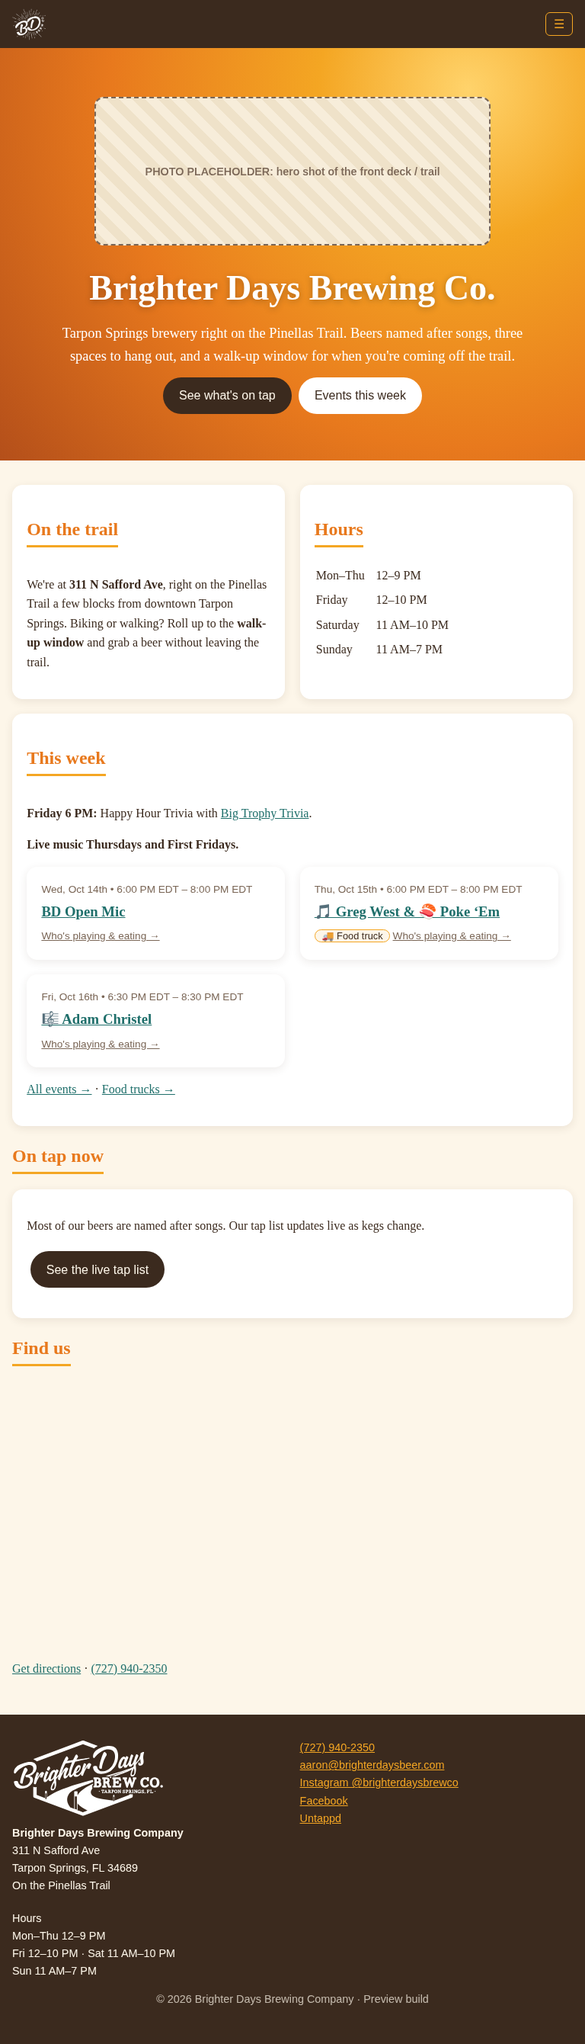
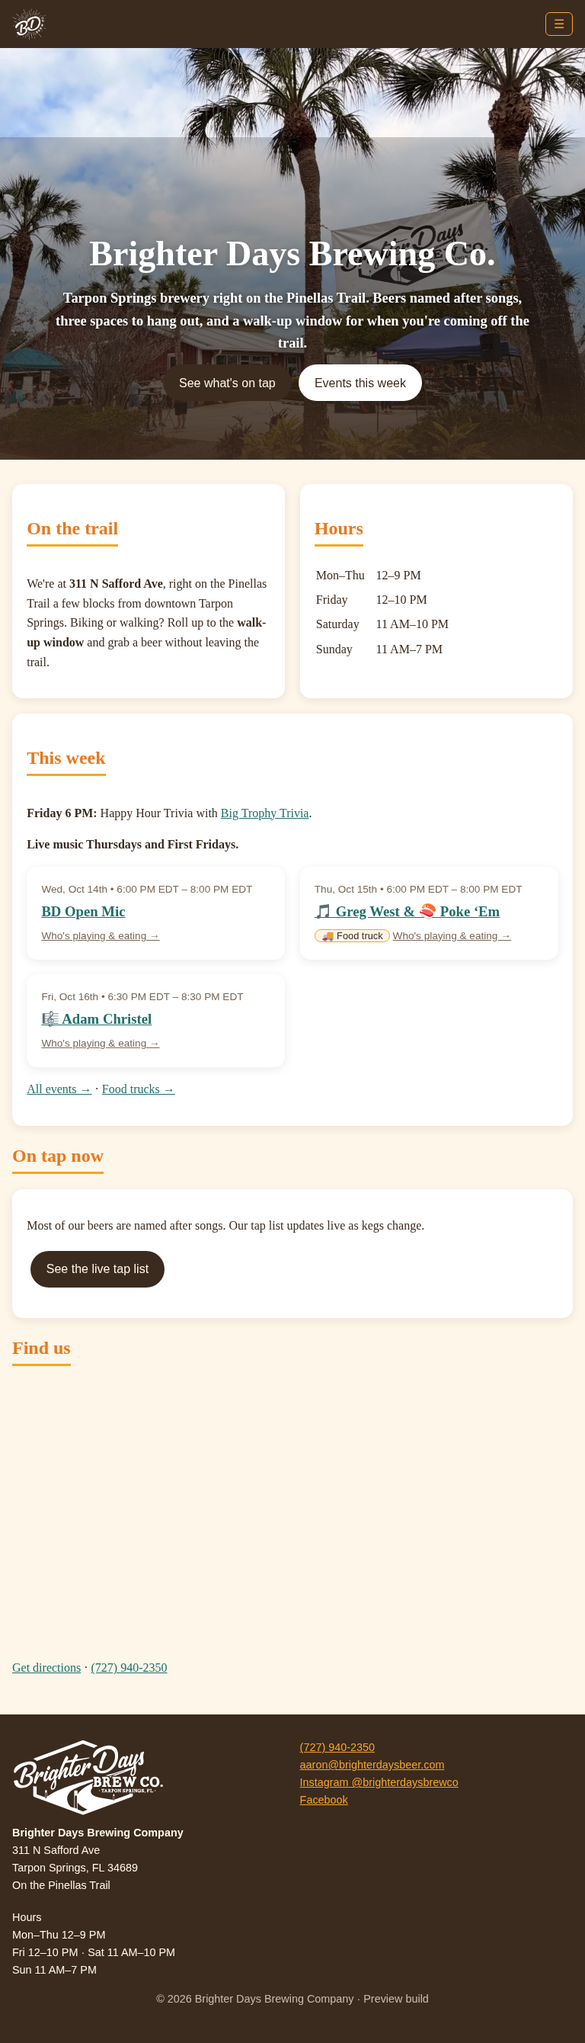
Fix stretched hero on iPhone: object-fit cover, svh height, img height:auto site-wide, cache-bust CSS

diff --git a/index.html b/index.html
@@ -1,7 +1,7 @@
 <!doctype html><html lang="en"><head><meta charset="utf-8"><meta name="viewport" content="width=device-width,initial-scale=1">
 <title>Home | Brighter Days Brewing Company, Tarpon Springs FL</title><meta name="description" content="Brighter Days Brewing Company: a Tarpon Springs brewery right on the Pinellas Trail, with a walk-up window and beers named after songs.">
 <link rel="icon" href="favicon.ico" sizes="any"><link rel="icon" type="image/png" sizes="32x32" href="assets/img/logo/favicon-32.png"><link rel="icon" type="image/png" sizes="16x16" href="assets/img/logo/favicon-16.png"><link rel="icon" type="image/png" sizes="192x192" href="assets/img/logo/favicon-192.png"><link rel="apple-touch-icon" href="assets/img/logo/apple-touch-icon.png">
-<link rel="stylesheet" href="assets/style.css"></head><body>
+<link rel="stylesheet" href="assets/style.css?v=20261013b"></head><body>
 <header><div class="nav"><a class="logo" href="index.html" aria-label="Brighter Days Brew Co. home"><img class="logo-full" src="assets/img/logo/bd-logo-main-white.svg" alt="Brighter Days Brew Co., Tarpon Springs, FL" width="690" height="353"><img class="logo-mark" src="assets/img/logo/bd-starburst-white.png" alt="Brighter Days Brew Co." width="200" height="200"></a><button id="menuBtn" aria-label="Menu">☰</button><nav><ul><li><a href="index.html" class=on>Home</a></li><li><a href="taps.html">Tap List</a></li><li><a href="events.html">Events</a></li><li><a href="food-trucks.html">Food Trucks</a></li><li><a href="private-events.html">Private Events</a></li><li><a href="spaces.html">Spaces</a></li><li><a href="story.html">Our Story</a></li><li><a href="contact.html">Contact</a></li></ul></nav></div></header>
 <section class="hero photo"><picture><source srcset="assets/img/home-hero.webp" type="image/webp"><img class="hero-img" src="assets/img/home-hero.jpg" alt="Brighter Days Brew Co. banner among the palms outside the taproom on the Pinellas Trail" width="1440" height="810" fetchpriority="high"></picture><div class="hero-inner"><h1>Brighter Days Brewing Co.</h1><p>Tarpon Springs brewery right on the Pinellas Trail. Beers named after songs, three spaces to hang out, and a walk-up window for when you're coming off the trail.</p>
 <a class="btn" href="taps.html">See what's on tap</a><a class="btn alt" href="events.html">Events this week</a></div></section>
@@ -13,4 +13,4 @@
 <h2>On tap now</h2><div class="card"><p>Most of our beers are named after songs. Our tap list updates live as kegs change.</p><p><a class="btn" href="taps.html">See the live tap list</a></p></div>
 <h2>Find us</h2><iframe class="map" loading="lazy" title="Map to 311 N Safford Ave, Tarpon Springs" src="https://maps.google.com/maps?q=311%20N%20Safford%20Ave%2C%20Tarpon%20Springs%2C%20FL%2034689&z=16&output=embed"></iframe><p><a href="https://www.google.com/maps/dir/?api=1&destination=311+N+Safford+Ave+Tarpon+Springs+FL+34689">Get directions</a> · <a href="tel:+17279402350">(727) 940-2350</a></p></main>
 <footer><div class="grid"><div><img src="assets/img/logo/bd-logo-main-white.svg" alt="Brighter Days Brew Co., Tarpon Springs, FL" style="width:200px;height:auto;display:block;margin-bottom:.6rem"><strong>Brighter Days Brewing Company</strong><br>311 N Safford Ave<br>Tarpon Springs, FL 34689<br>On the Pinellas Trail</div><div><a href="tel:+17279402350">(727) 940-2350</a><br><a href="mailto:aaron@brighterdaysbeer.com">aaron@brighterdaysbeer.com</a><br><a href="https://instagram.com/brighterdaysbrewco">Instagram @brighterdaysbrewco</a><br><a href="https://www.facebook.com/282372538847975">Facebook</a></div><div>Hours<br>Mon–Thu 12–9 PM<br>Fri 12–10 PM · Sat 11 AM–10 PM<br>Sun 11 AM–7 PM</div></div><p style="text-align:center;opacity:.7">© 2026 Brighter Days Brewing Company · Preview build</p></footer>
-<script src="assets/site.js"></script><script src="data/events.js"></script><script>renderEvents(document.getElementById("homeEvents"),3)</script></body></html>
+<script src="assets/site.js?v=20261013b"></script><script src="data/events.js"></script><script>renderEvents(document.getElementById("homeEvents"),3)</script></body></html>

diff --git a/contact.html b/contact.html
@@ -1,8 +1,8 @@
 <!doctype html><html lang="en"><head><meta charset="utf-8"><meta name="viewport" content="width=device-width,initial-scale=1">
 <title>Contact | Brighter Days Brewing Company, Tarpon Springs FL</title><meta name="description" content="Brighter Days Brewing Company: a Tarpon Springs brewery right on the Pinellas Trail, with a walk-up window and beers named after songs.">
 <link rel="icon" href="favicon.ico" sizes="any"><link rel="icon" type="image/png" sizes="32x32" href="assets/img/logo/favicon-32.png"><link rel="icon" type="image/png" sizes="16x16" href="assets/img/logo/favicon-16.png"><link rel="icon" type="image/png" sizes="192x192" href="assets/img/logo/favicon-192.png"><link rel="apple-touch-icon" href="assets/img/logo/apple-touch-icon.png">
-<link rel="stylesheet" href="assets/style.css"></head><body>
+<link rel="stylesheet" href="assets/style.css?v=20261013b"></head><body>
 <header><div class="nav"><a class="logo" href="index.html" aria-label="Brighter Days Brew Co. home"><img class="logo-full" src="assets/img/logo/bd-logo-main-white.svg" alt="Brighter Days Brew Co., Tarpon Springs, FL" width="690" height="353"><img class="logo-mark" src="assets/img/logo/bd-starburst-white.png" alt="Brighter Days Brew Co." width="200" height="200"></a><button id="menuBtn" aria-label="Menu">☰</button><nav><ul><li><a href="index.html">Home</a></li><li><a href="taps.html">Tap List</a></li><li><a href="events.html">Events</a></li><li><a href="food-trucks.html">Food Trucks</a></li><li><a href="private-events.html">Private Events</a></li><li><a href="spaces.html">Spaces</a></li><li><a href="story.html">Our Story</a></li><li><a href="contact.html" class=on>Contact</a></li></ul></nav></div></header>
 <main><h2>Contact & visit</h2><div class="grid"><div class="card"><h3>Brighter Days Brewing Company</h3><p>311 N Safford Ave<br>Tarpon Springs, FL 34689</p><p><a href="tel:+17279402350">(727) 940-2350</a></p><p><a href="https://instagram.com/brighterdaysbrewco">Instagram @brighterdaysbrewco</a><br><a href="https://www.facebook.com/282372538847975">Facebook</a></p><p>Email: <a href="mailto:aaron@brighterdaysbeer.com">aaron@brighterdaysbeer.com</a></p></div><div class="card"><h3>Hours</h3><table class="hours"><tr><td>Mon–Thu</td><td>12–9 PM</td></tr><tr><td>Friday</td><td>12–10 PM</td></tr><tr><td>Saturday</td><td>11 AM–10 PM</td></tr><tr><td>Sunday</td><td>11 AM–7 PM</td></tr></table></div></div><h3>Map</h3><iframe class="map" loading="lazy" title="Map to 311 N Safford Ave, Tarpon Springs" src="https://maps.google.com/maps?q=311%20N%20Safford%20Ave%2C%20Tarpon%20Springs%2C%20FL%2034689&z=16&output=embed"></iframe></main>
 <footer><div class="grid"><div><img src="assets/img/logo/bd-logo-main-white.svg" alt="Brighter Days Brew Co., Tarpon Springs, FL" style="width:200px;height:auto;display:block;margin-bottom:.6rem"><strong>Brighter Days Brewing Company</strong><br>311 N Safford Ave<br>Tarpon Springs, FL 34689<br>On the Pinellas Trail</div><div><a href="tel:+17279402350">(727) 940-2350</a><br><a href="mailto:aaron@brighterdaysbeer.com">aaron@brighterdaysbeer.com</a><br><a href="https://instagram.com/brighterdaysbrewco">Instagram @brighterdaysbrewco</a><br><a href="https://www.facebook.com/282372538847975">Facebook</a></div><div>Hours<br>Mon–Thu 12–9 PM<br>Fri 12–10 PM · Sat 11 AM–10 PM<br>Sun 11 AM–7 PM</div></div><p style="text-align:center;opacity:.7">© 2026 Brighter Days Brewing Company · Preview build</p></footer>
-<script src="assets/site.js"></script></body></html>
+<script src="assets/site.js?v=20261013b"></script></body></html>

diff --git a/story.html b/story.html
@@ -1,8 +1,8 @@
 <!doctype html><html lang="en"><head><meta charset="utf-8"><meta name="viewport" content="width=device-width,initial-scale=1">
 <title>Our Story | Brighter Days Brewing Company, Tarpon Springs FL</title><meta name="description" content="Brighter Days Brewing Company: a Tarpon Springs brewery right on the Pinellas Trail, with a walk-up window and beers named after songs.">
 <link rel="icon" href="favicon.ico" sizes="any"><link rel="icon" type="image/png" sizes="32x32" href="assets/img/logo/favicon-32.png"><link rel="icon" type="image/png" sizes="16x16" href="assets/img/logo/favicon-16.png"><link rel="icon" type="image/png" sizes="192x192" href="assets/img/logo/favicon-192.png"><link rel="apple-touch-icon" href="assets/img/logo/apple-touch-icon.png">
-<link rel="stylesheet" href="assets/style.css"></head><body>
+<link rel="stylesheet" href="assets/style.css?v=20261013b"></head><body>
 <header><div class="nav"><a class="logo" href="index.html" aria-label="Brighter Days Brew Co. home"><img class="logo-full" src="assets/img/logo/bd-logo-main-white.svg" alt="Brighter Days Brew Co., Tarpon Springs, FL" width="690" height="353"><img class="logo-mark" src="assets/img/logo/bd-starburst-white.png" alt="Brighter Days Brew Co." width="200" height="200"></a><button id="menuBtn" aria-label="Menu">☰</button><nav><ul><li><a href="index.html">Home</a></li><li><a href="taps.html">Tap List</a></li><li><a href="events.html">Events</a></li><li><a href="food-trucks.html">Food Trucks</a></li><li><a href="private-events.html">Private Events</a></li><li><a href="spaces.html">Spaces</a></li><li><a href="story.html" class=on>Our Story</a></li><li><a href="contact.html">Contact</a></li></ul></nav></div></header>
 <main><h2>Our story</h2><div class="grid"><div class="card"><p>We opened in 2020 with one idea: a big patio, cold beer, and live music most nights. Six years later, that's still the whole plan.</p><p>Music is the heartbeat here, and every beer we brew is named after a song. Thursdays and First Fridays bring bands to the taproom, from funk and soul to jam-band improv and laid-back country.</p><p>Three rooms, one easy vibe: the indoor bar, the open-air garage with the game on, and a big deck right off the Pinellas Trail, with Adirondack chairs and umbrellas. Our walk-up window means bikers and trail walkers are as much a part of the crowd as the regulars.</p><p>We're family-friendly and dog-friendly. Since 2022, every March we've hosted the 5K for Autism, which funds the Heart 4 Kids scholarship.</p></div><div class="ph-img">PHOTO PLACEHOLDER: owner / brewhouse</div></div></main>
 <footer><div class="grid"><div><img src="assets/img/logo/bd-logo-main-white.svg" alt="Brighter Days Brew Co., Tarpon Springs, FL" style="width:200px;height:auto;display:block;margin-bottom:.6rem"><strong>Brighter Days Brewing Company</strong><br>311 N Safford Ave<br>Tarpon Springs, FL 34689<br>On the Pinellas Trail</div><div><a href="tel:+17279402350">(727) 940-2350</a><br><a href="mailto:aaron@brighterdaysbeer.com">aaron@brighterdaysbeer.com</a><br><a href="https://instagram.com/brighterdaysbrewco">Instagram @brighterdaysbrewco</a><br><a href="https://www.facebook.com/282372538847975">Facebook</a></div><div>Hours<br>Mon–Thu 12–9 PM<br>Fri 12–10 PM · Sat 11 AM–10 PM<br>Sun 11 AM–7 PM</div></div><p style="text-align:center;opacity:.7">© 2026 Brighter Days Brewing Company · Preview build</p></footer>
-<script src="assets/site.js"></script></body></html>
+<script src="assets/site.js?v=20261013b"></script></body></html>

diff --git a/private-events.html b/private-events.html
@@ -1,7 +1,7 @@
 <!doctype html><html lang="en"><head><meta charset="utf-8"><meta name="viewport" content="width=device-width,initial-scale=1">
 <title>Private Events | Brighter Days Brewing Company, Tarpon Springs FL</title><meta name="description" content="Brighter Days Brewing Company: a Tarpon Springs brewery right on the Pinellas Trail, with a walk-up window and beers named after songs.">
 <link rel="icon" href="favicon.ico" sizes="any"><link rel="icon" type="image/png" sizes="32x32" href="assets/img/logo/favicon-32.png"><link rel="icon" type="image/png" sizes="16x16" href="assets/img/logo/favicon-16.png"><link rel="icon" type="image/png" sizes="192x192" href="assets/img/logo/favicon-192.png"><link rel="apple-touch-icon" href="assets/img/logo/apple-touch-icon.png">
-<link rel="stylesheet" href="assets/style.css"></head><body>
+<link rel="stylesheet" href="assets/style.css?v=20261013b"></head><body>
 <header><div class="nav"><a class="logo" href="index.html" aria-label="Brighter Days Brew Co. home"><img class="logo-full" src="assets/img/logo/bd-logo-main-white.svg" alt="Brighter Days Brew Co., Tarpon Springs, FL" width="690" height="353"><img class="logo-mark" src="assets/img/logo/bd-starburst-white.png" alt="Brighter Days Brew Co." width="200" height="200"></a><button id="menuBtn" aria-label="Menu">☰</button><nav><ul><li><a href="index.html">Home</a></li><li><a href="taps.html">Tap List</a></li><li><a href="events.html">Events</a></li><li><a href="food-trucks.html">Food Trucks</a></li><li><a href="private-events.html" class=on>Private Events</a></li><li><a href="spaces.html">Spaces</a></li><li><a href="story.html">Our Story</a></li><li><a href="contact.html">Contact</a></li></ul></nav></div></header>
 <main><h2>Private events</h2><p>Birthdays, team outings, rehearsal dinners, club meetups: tell us what you have in mind and we'll get back to you about space and availability.</p>
 <div id="pe-wrap" class="card pe-card">
@@ -26,7 +26,7 @@
 </form></div>
 <p class="small">Prefer email? <a href="mailto:aaron@brighterdaysbeer.com">aaron@brighterdaysbeer.com</a> · or call <a href="tel:+17279402350">(727) 940-2350</a></p></main>
 <footer><div class="grid"><div><img src="assets/img/logo/bd-logo-main-white.svg" alt="Brighter Days Brew Co., Tarpon Springs, FL" style="width:200px;height:auto;display:block;margin-bottom:.6rem"><strong>Brighter Days Brewing Company</strong><br>311 N Safford Ave<br>Tarpon Springs, FL 34689<br>On the Pinellas Trail</div><div><a href="tel:+17279402350">(727) 940-2350</a><br><a href="mailto:aaron@brighterdaysbeer.com">aaron@brighterdaysbeer.com</a><br><a href="https://instagram.com/brighterdaysbrewco">Instagram @brighterdaysbrewco</a><br><a href="https://www.facebook.com/282372538847975">Facebook</a></div><div>Hours<br>Mon–Thu 12–9 PM<br>Fri 12–10 PM · Sat 11 AM–10 PM<br>Sun 11 AM–7 PM</div></div><p style="text-align:center;opacity:.7">© 2026 Brighter Days Brewing Company · Preview build</p></footer>
-<script src="assets/site.js"></script><script>
+<script src="assets/site.js?v=20261013b"></script><script>
 (function(){const f=document.getElementById('pe'),st=document.getElementById('pe-status'),btn=f.querySelector('button[type=submit]');
 f.addEventListener('submit',async e=>{e.preventDefault();if(!f.reportValidity())return;btn.disabled=true;btn.textContent='Sending...';st.innerHTML='';
  try{const r=await fetch(f.action,{method:'POST',body:new FormData(f),headers:{Accept:'application/json'}});if(!r.ok)throw 0;

diff --git a/taps.html b/taps.html
@@ -1,11 +1,11 @@
 <!doctype html><html lang="en"><head><meta charset="utf-8"><meta name="viewport" content="width=device-width,initial-scale=1">
 <title>Tap List | Brighter Days Brewing Company, Tarpon Springs FL</title><meta name="description" content="Brighter Days Brewing Company: a Tarpon Springs brewery right on the Pinellas Trail, with a walk-up window and beers named after songs.">
 <link rel="icon" href="favicon.ico" sizes="any"><link rel="icon" type="image/png" sizes="32x32" href="assets/img/logo/favicon-32.png"><link rel="icon" type="image/png" sizes="16x16" href="assets/img/logo/favicon-16.png"><link rel="icon" type="image/png" sizes="192x192" href="assets/img/logo/favicon-192.png"><link rel="apple-touch-icon" href="assets/img/logo/apple-touch-icon.png">
-<link rel="stylesheet" href="assets/style.css"></head><body>
+<link rel="stylesheet" href="assets/style.css?v=20261013b"></head><body>
 <header><div class="nav"><a class="logo" href="index.html" aria-label="Brighter Days Brew Co. home"><img class="logo-full" src="assets/img/logo/bd-logo-main-white.svg" alt="Brighter Days Brew Co., Tarpon Springs, FL" width="690" height="353"><img class="logo-mark" src="assets/img/logo/bd-starburst-white.png" alt="Brighter Days Brew Co." width="200" height="200"></a><button id="menuBtn" aria-label="Menu">☰</button><nav><ul><li><a href="index.html">Home</a></li><li><a href="taps.html" class=on>Tap List</a></li><li><a href="events.html">Events</a></li><li><a href="food-trucks.html">Food Trucks</a></li><li><a href="private-events.html">Private Events</a></li><li><a href="spaces.html">Spaces</a></li><li><a href="story.html">Our Story</a></li><li><a href="contact.html">Contact</a></li></ul></nav></div></header>
 <main><h2>Tap list</h2><p>Most of our beers are named after songs. Here's what's pouring right now.</p><div id="menu-container"></div>
 <script type="text/javascript">
 !function(e,t){var n=document.createElement("script"),a=document.getElementsByTagName("script")[0];n.async=1,a.parentNode.insertBefore(n,a),n.onload=n.onreadystatechange=function(e,a){(a||!n.readyState||/loaded|complete/.test(n.readyState))&&(n.onload=n.onreadystatechange=null,a||t&&t())},n.src=e}("https://embed-menu-preloader.untappdapi.com/embed-menu-preloader.min.js",(function(){PreloadEmbedMenu("menu-container",48872,174590)}));
 </script><noscript><p>Turn on JavaScript to see the tap list, or call us at <a href="tel:+17279402350">(727) 940-2350</a>.</p></noscript></main>
 <footer><div class="grid"><div><img src="assets/img/logo/bd-logo-main-white.svg" alt="Brighter Days Brew Co., Tarpon Springs, FL" style="width:200px;height:auto;display:block;margin-bottom:.6rem"><strong>Brighter Days Brewing Company</strong><br>311 N Safford Ave<br>Tarpon Springs, FL 34689<br>On the Pinellas Trail</div><div><a href="tel:+17279402350">(727) 940-2350</a><br><a href="mailto:aaron@brighterdaysbeer.com">aaron@brighterdaysbeer.com</a><br><a href="https://instagram.com/brighterdaysbrewco">Instagram @brighterdaysbrewco</a><br><a href="https://www.facebook.com/282372538847975">Facebook</a></div><div>Hours<br>Mon–Thu 12–9 PM<br>Fri 12–10 PM · Sat 11 AM–10 PM<br>Sun 11 AM–7 PM</div></div><p style="text-align:center;opacity:.7">© 2026 Brighter Days Brewing Company · Preview build</p></footer>
-<script src="assets/site.js"></script></body></html>
+<script src="assets/site.js?v=20261013b"></script></body></html>

diff --git a/food-trucks.html b/food-trucks.html
@@ -1,12 +1,12 @@
 <!doctype html><html lang="en"><head><meta charset="utf-8"><meta name="viewport" content="width=device-width,initial-scale=1">
 <title>Food Trucks | Brighter Days Brewing Company, Tarpon Springs FL</title><meta name="description" content="Brighter Days Brewing Company: a Tarpon Springs brewery right on the Pinellas Trail, with a walk-up window and beers named after songs.">
 <link rel="icon" href="favicon.ico" sizes="any"><link rel="icon" type="image/png" sizes="32x32" href="assets/img/logo/favicon-32.png"><link rel="icon" type="image/png" sizes="16x16" href="assets/img/logo/favicon-16.png"><link rel="icon" type="image/png" sizes="192x192" href="assets/img/logo/favicon-192.png"><link rel="apple-touch-icon" href="assets/img/logo/apple-touch-icon.png">
-<link rel="stylesheet" href="assets/style.css"></head><body>
+<link rel="stylesheet" href="assets/style.css?v=20261013b"></head><body>
 <header><div class="nav"><a class="logo" href="index.html" aria-label="Brighter Days Brew Co. home"><img class="logo-full" src="assets/img/logo/bd-logo-main-white.svg" alt="Brighter Days Brew Co., Tarpon Springs, FL" width="690" height="353"><img class="logo-mark" src="assets/img/logo/bd-starburst-white.png" alt="Brighter Days Brew Co." width="200" height="200"></a><button id="menuBtn" aria-label="Menu">☰</button><nav><ul><li><a href="index.html">Home</a></li><li><a href="taps.html">Tap List</a></li><li><a href="events.html">Events</a></li><li><a href="food-trucks.html" class=on>Food Trucks</a></li><li><a href="private-events.html">Private Events</a></li><li><a href="spaces.html">Spaces</a></li><li><a href="story.html">Our Story</a></li><li><a href="contact.html">Contact</a></li></ul></nav></div></header>
 <main><h2>Food trucks</h2><p>Food trucks and pop-ups posted for this week and next.</p><p class="flag" style="background:#fff;border-left-color:var(--sun)">Food schedules change. Check here or Instagram <a href="https://instagram.com/brighterdaysbrewco">@brighterdaysbrewco</a> for the latest.</p><div id="weeks"></div>
 </main>
 <footer><div class="grid"><div><img src="assets/img/logo/bd-logo-main-white.svg" alt="Brighter Days Brew Co., Tarpon Springs, FL" style="width:200px;height:auto;display:block;margin-bottom:.6rem"><strong>Brighter Days Brewing Company</strong><br>311 N Safford Ave<br>Tarpon Springs, FL 34689<br>On the Pinellas Trail</div><div><a href="tel:+17279402350">(727) 940-2350</a><br><a href="mailto:aaron@brighterdaysbeer.com">aaron@brighterdaysbeer.com</a><br><a href="https://instagram.com/brighterdaysbrewco">Instagram @brighterdaysbrewco</a><br><a href="https://www.facebook.com/282372538847975">Facebook</a></div><div>Hours<br>Mon–Thu 12–9 PM<br>Fri 12–10 PM · Sat 11 AM–10 PM<br>Sun 11 AM–7 PM</div></div><p style="text-align:center;opacity:.7">© 2026 Brighter Days Brewing Company · Preview build</p></footer>
-<script src="assets/site.js"></script><script src="data/events.js"></script><script>
+<script src="assets/site.js?v=20261013b"></script><script src="data/events.js"></script><script>
 const el=document.getElementById('weeks');const ev=upcoming().filter(e=>e.trucks.length);
 const mon=new Date();mon.setHours(0,0,0,0);mon.setDate(mon.getDate()-((mon.getDay()+6)%7));
 let h='';for(let w=0;w<2;w++){h+=`<h3>${w?'Next week':'This week'}</h3><div class="week">`;for(let i=0;i<7;i++){const d=new Date(mon);d.setDate(mon.getDate()+w*7+i);

diff --git a/event.html b/event.html
@@ -1,11 +1,11 @@
 <!doctype html><html lang="en"><head><meta charset="utf-8"><meta name="viewport" content="width=device-width,initial-scale=1">
 <title>Event | Brighter Days Brewing Company, Tarpon Springs FL</title><meta name="description" content="Brighter Days Brewing Company: a Tarpon Springs brewery right on the Pinellas Trail, with a walk-up window and beers named after songs.">
 <link rel="icon" href="favicon.ico" sizes="any"><link rel="icon" type="image/png" sizes="32x32" href="assets/img/logo/favicon-32.png"><link rel="icon" type="image/png" sizes="16x16" href="assets/img/logo/favicon-16.png"><link rel="icon" type="image/png" sizes="192x192" href="assets/img/logo/favicon-192.png"><link rel="apple-touch-icon" href="assets/img/logo/apple-touch-icon.png">
-<link rel="stylesheet" href="assets/style.css"></head><body>
+<link rel="stylesheet" href="assets/style.css?v=20261013b"></head><body>
 <header><div class="nav"><a class="logo" href="index.html" aria-label="Brighter Days Brew Co. home"><img class="logo-full" src="assets/img/logo/bd-logo-main-white.svg" alt="Brighter Days Brew Co., Tarpon Springs, FL" width="690" height="353"><img class="logo-mark" src="assets/img/logo/bd-starburst-white.png" alt="Brighter Days Brew Co." width="200" height="200"></a><button id="menuBtn" aria-label="Menu">☰</button><nav><ul><li><a href="index.html">Home</a></li><li><a href="taps.html">Tap List</a></li><li><a href="events.html">Events</a></li><li><a href="food-trucks.html">Food Trucks</a></li><li><a href="private-events.html">Private Events</a></li><li><a href="spaces.html">Spaces</a></li><li><a href="story.html">Our Story</a></li><li><a href="contact.html">Contact</a></li></ul></nav></div></header>
 <main><p class="small"><a href="events.html">← All events</a></p><div id="ev-detail"><p>Loading event…</p></div></main>
 <footer><div class="grid"><div><img src="assets/img/logo/bd-logo-main-white.svg" alt="Brighter Days Brew Co., Tarpon Springs, FL" style="width:200px;height:auto;display:block;margin-bottom:.6rem"><strong>Brighter Days Brewing Company</strong><br>311 N Safford Ave<br>Tarpon Springs, FL 34689<br>On the Pinellas Trail</div><div><a href="tel:+17279402350">(727) 940-2350</a><br><a href="mailto:aaron@brighterdaysbeer.com">aaron@brighterdaysbeer.com</a><br><a href="https://instagram.com/brighterdaysbrewco">Instagram @brighterdaysbrewco</a><br><a href="https://www.facebook.com/282372538847975">Facebook</a></div><div>Hours<br>Mon–Thu 12–9 PM<br>Fri 12–10 PM · Sat 11 AM–10 PM<br>Sun 11 AM–7 PM</div></div><p style="text-align:center;opacity:.7">© 2026 Brighter Days Brewing Company · Preview build</p></footer>
-<script src="assets/site.js"></script><script src="data/events.js"></script><script>
+<script src="assets/site.js?v=20261013b"></script><script src="data/events.js"></script><script>
 (async()=>{const el=document.getElementById('ev-detail');const id=new URLSearchParams(location.search).get('id');const e=(window.BD_EVENTS?.events||[]).find(x=>x.id===id);
  if(!e){el.innerHTML='<h2>Event not found</h2><p>It may have passed. <a href="events.html">See upcoming events</a>.</p>';return}
  document.title=e.title.replace(/[^\p{L}\p{N}\s'&-]/gu,'').trim()+' | Brighter Days Brewing Company';

diff --git a/events.html b/events.html
@@ -1,8 +1,8 @@
 <!doctype html><html lang="en"><head><meta charset="utf-8"><meta name="viewport" content="width=device-width,initial-scale=1">
 <title>Events | Brighter Days Brewing Company, Tarpon Springs FL</title><meta name="description" content="Brighter Days Brewing Company: a Tarpon Springs brewery right on the Pinellas Trail, with a walk-up window and beers named after songs.">
 <link rel="icon" href="favicon.ico" sizes="any"><link rel="icon" type="image/png" sizes="32x32" href="assets/img/logo/favicon-32.png"><link rel="icon" type="image/png" sizes="16x16" href="assets/img/logo/favicon-16.png"><link rel="icon" type="image/png" sizes="192x192" href="assets/img/logo/favicon-192.png"><link rel="apple-touch-icon" href="assets/img/logo/apple-touch-icon.png">
-<link rel="stylesheet" href="assets/style.css"></head><body>
+<link rel="stylesheet" href="assets/style.css?v=20261013b"></head><body>
 <header><div class="nav"><a class="logo" href="index.html" aria-label="Brighter Days Brew Co. home"><img class="logo-full" src="assets/img/logo/bd-logo-main-white.svg" alt="Brighter Days Brew Co., Tarpon Springs, FL" width="690" height="353"><img class="logo-mark" src="assets/img/logo/bd-starburst-white.png" alt="Brighter Days Brew Co." width="200" height="200"></a><button id="menuBtn" aria-label="Menu">☰</button><nav><ul><li><a href="index.html">Home</a></li><li><a href="taps.html">Tap List</a></li><li><a href="events.html" class=on>Events</a></li><li><a href="food-trucks.html">Food Trucks</a></li><li><a href="private-events.html">Private Events</a></li><li><a href="spaces.html">Spaces</a></li><li><a href="story.html">Our Story</a></li><li><a href="contact.html">Contact</a></li></ul></nav></div></header>
 <main><h2>Events</h2><div class="card" style="margin-bottom:1rem"><strong>Every Friday, 6 PM:</strong> Happy Hour Trivia hosted by <a href="https://bigtrophytrivia.com/brighter-days">Big Trophy Trivia</a>.</div><div class="card" style="margin-bottom:1rem"><strong>Live music Thursdays and First Fridays.</strong></div><h3>Coming up</h3><div id="ev"></div></main>
 <footer><div class="grid"><div><img src="assets/img/logo/bd-logo-main-white.svg" alt="Brighter Days Brew Co., Tarpon Springs, FL" style="width:200px;height:auto;display:block;margin-bottom:.6rem"><strong>Brighter Days Brewing Company</strong><br>311 N Safford Ave<br>Tarpon Springs, FL 34689<br>On the Pinellas Trail</div><div><a href="tel:+17279402350">(727) 940-2350</a><br><a href="mailto:aaron@brighterdaysbeer.com">aaron@brighterdaysbeer.com</a><br><a href="https://instagram.com/brighterdaysbrewco">Instagram @brighterdaysbrewco</a><br><a href="https://www.facebook.com/282372538847975">Facebook</a></div><div>Hours<br>Mon–Thu 12–9 PM<br>Fri 12–10 PM · Sat 11 AM–10 PM<br>Sun 11 AM–7 PM</div></div><p style="text-align:center;opacity:.7">© 2026 Brighter Days Brewing Company · Preview build</p></footer>
-<script src="assets/site.js"></script><script src="data/events.js"></script><script>renderEvents(document.getElementById("ev"))</script></body></html>
+<script src="assets/site.js?v=20261013b"></script><script src="data/events.js"></script><script>renderEvents(document.getElementById("ev"))</script></body></html>

diff --git a/spaces.html b/spaces.html
@@ -1,7 +1,7 @@
 <!doctype html><html lang="en"><head><meta charset="utf-8"><meta name="viewport" content="width=device-width,initial-scale=1">
 <title>Spaces | Brighter Days Brewing Company, Tarpon Springs FL</title><meta name="description" content="Brighter Days Brewing Company: a Tarpon Springs brewery right on the Pinellas Trail, with a walk-up window and beers named after songs.">
 <link rel="icon" href="favicon.ico" sizes="any"><link rel="icon" type="image/png" sizes="32x32" href="assets/img/logo/favicon-32.png"><link rel="icon" type="image/png" sizes="16x16" href="assets/img/logo/favicon-16.png"><link rel="icon" type="image/png" sizes="192x192" href="assets/img/logo/favicon-192.png"><link rel="apple-touch-icon" href="assets/img/logo/apple-touch-icon.png">
-<link rel="stylesheet" href="assets/style.css"></head><body>
+<link rel="stylesheet" href="assets/style.css?v=20261013b"></head><body>
 <header><div class="nav"><a class="logo" href="index.html" aria-label="Brighter Days Brew Co. home"><img class="logo-full" src="assets/img/logo/bd-logo-main-white.svg" alt="Brighter Days Brew Co., Tarpon Springs, FL" width="690" height="353"><img class="logo-mark" src="assets/img/logo/bd-starburst-white.png" alt="Brighter Days Brew Co." width="200" height="200"></a><button id="menuBtn" aria-label="Menu">☰</button><nav><ul><li><a href="index.html">Home</a></li><li><a href="taps.html">Tap List</a></li><li><a href="events.html">Events</a></li><li><a href="food-trucks.html">Food Trucks</a></li><li><a href="private-events.html">Private Events</a></li><li><a href="spaces.html" class=on>Spaces</a></li><li><a href="story.html">Our Story</a></li><li><a href="contact.html">Contact</a></li></ul></nav></div></header>
 <main><h2>Our spaces</h2><p>Three different spots to hang out, plus a walk-up window on the trail.</p><div class="grid">
 <div class="card"><div class="ph-img">PHOTO PLACEHOLDER: indoor bar</div><h3>Indoor bar</h3><p>Order at the bar and see what's pouring.</p></div>
@@ -10,4 +10,4 @@
 <div class="card"><div class="ph-img">PHOTO PLACEHOLDER: walk-up window</div><h3>Walk-up window</h3><p>Coming off the Pinellas Trail? Grab a beer at the window.</p></div></div>
 <p><a class="btn" href="private-events.html">Book a space</a></p></main>
 <footer><div class="grid"><div><img src="assets/img/logo/bd-logo-main-white.svg" alt="Brighter Days Brew Co., Tarpon Springs, FL" style="width:200px;height:auto;display:block;margin-bottom:.6rem"><strong>Brighter Days Brewing Company</strong><br>311 N Safford Ave<br>Tarpon Springs, FL 34689<br>On the Pinellas Trail</div><div><a href="tel:+17279402350">(727) 940-2350</a><br><a href="mailto:aaron@brighterdaysbeer.com">aaron@brighterdaysbeer.com</a><br><a href="https://instagram.com/brighterdaysbrewco">Instagram @brighterdaysbrewco</a><br><a href="https://www.facebook.com/282372538847975">Facebook</a></div><div>Hours<br>Mon–Thu 12–9 PM<br>Fri 12–10 PM · Sat 11 AM–10 PM<br>Sun 11 AM–7 PM</div></div><p style="text-align:center;opacity:.7">© 2026 Brighter Days Brewing Company · Preview build</p></footer>
-<script src="assets/site.js"></script></body></html>
+<script src="assets/site.js?v=20261013b"></script></body></html>

diff --git a/assets/style.css b/assets/style.css
@@ -53,3 +53,14 @@ iframe,img,video{max-width:100%}#menu-container{max-width:100%;overflow-x:auto}
 .hero.photo .hero-inner{position:relative;padding:7rem 1rem 4.5rem;background:linear-gradient(180deg,#0000 0,#0004 35%,#3b2a1ecc 100%)}
 @media(max-width:600px){.hero.photo .hero-inner{padding:5rem 1rem 3rem}}
 .hero.photo .hero-inner{background:linear-gradient(180deg,#0003 0,#00000080 45%,#3b2a1ee6 100%)}.hero.photo p{text-shadow:0 1px 6px #000c;font-weight:600}
+/* ---- no-distortion rules (site-wide) ---- */
+img{max-width:100%;height:auto}
+.logo img,.logo-full,.logo-mark,footer img{height:auto;object-fit:contain}
+.logo-full{height:76px;width:auto}.logo-mark{height:44px;width:auto}
+.hero.photo{position:relative;display:flex;align-items:flex-end;min-height:420px;height:60vh;height:60svh;max-height:640px;background:#3b2a1e;padding:0;overflow:hidden}
+.hero.photo picture{position:absolute;inset:0;display:block}
+.hero.photo img.hero-img{position:absolute;inset:0;width:100%;height:100%;max-width:none;object-fit:cover;object-position:center 45%}
+.hero.photo .hero-inner{position:relative;width:100%}
+@media(max-width:600px){.hero.photo{min-height:0;height:68vh;height:68svh;max-height:none}}
+.logo .logo-full{height:76px;width:auto}.logo .logo-mark{width:44px;height:44px}
+footer img{width:200px;height:auto}
